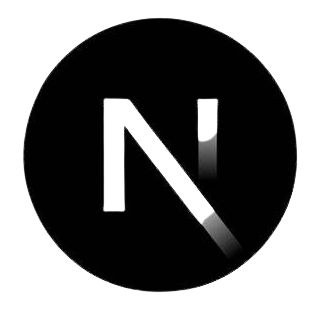
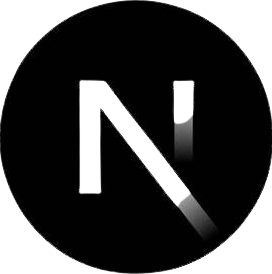
fixed testimonials

diff --git a/components/CreateTestimonial/index.tsx b/components/CreateTestimonial/index.tsx
@@ -4,11 +4,25 @@ import StarRatings from "../../node_modules/react-star-ratings";
 
 const CreateTestimonial = () => {
   const [rating, setRating] = useState(0);
+  const [fullName, setFullName] = useState("");
+  const [profession, setProfession] = useState("");
+  const [testimonial, setTestimonial] = useState("");
+
+  function handleSubmit(e: any) {
+    e.preventDefault();
+    const uploadData = {
+      fullName,
+      profession,
+      rating,
+      testimonial,
+    };
+    console.log(uploadData);
+  }
   return (
     <section id="contact" className="overflow-hidden">
       <div className="container">
         <div className="-mx-4 flex flex-wrap">
-          <div className="w-full px-4 lg:w-7/12 xl:w-8/12">
+          <div className="w-full max-w-[70rem] px-4">
             <div
               className="wow fadeInUp mb-12 rounded-md bg-primary/[3%] py-11 px-8 dark:bg-dark sm:p-[55px] lg:mb-5 lg:px-8 xl:p-[55px]"
               data-wow-delay=".15s
@@ -20,7 +34,7 @@ const CreateTestimonial = () => {
               <p className="mb-12 text-base font-medium text-body-color">
                 Fill form below to do it!
               </p>
-              <form>
+              <form action="submit" onSubmit={handleSubmit}>
                 <div className="-mx-4 flex flex-wrap">
                   <div className="w-full px-4 md:w-1/2">
                     <div className="mb-8">
@@ -28,12 +42,16 @@ const CreateTestimonial = () => {
                         htmlFor="name"
                         className="mb-3 block text-sm font-medium text-dark dark:text-white"
                       >
-                        Your Full Name
+                        Your Full Name:
                       </label>
                       <input
+                        value={fullName}
+                        onChange={(e: any) => {
+                          setFullName(e.target.value);
+                        }}
                         type="text"
                         placeholder="Enter your name"
-                        className="w-full rounded-md border border-transparent py-3 px-6 text-base text-body-color placeholder-body-color shadow-one outline-none focus:border-primary focus-visible:shadow-none dark:bg-[#242B51] dark:shadow-signUp"
+                        className="w-full rounded-md border border-transparent py-3 px-6 text-base text-dark shadow-one outline-none focus:border-primary focus-visible:shadow-none dark:bg-[#242B51] dark:text-white dark:shadow-signUp"
                       />
                     </div>
                   </div>
@@ -46,21 +64,24 @@ const CreateTestimonial = () => {
                         Your Profession:
                       </label>
                       <input
+                        value={profession}
+                        onChange={(e: any) => {
+                          setProfession(e.target.value);
+                        }}
                         type="text"
                         placeholder="Enter your profession"
-                        className="w-full rounded-md border border-transparent py-3 px-6 text-base text-body-color placeholder-body-color shadow-one outline-none focus:border-primary focus-visible:shadow-none dark:bg-[#242B51] dark:shadow-signUp"
+                        className="w-full rounded-md border border-transparent py-3 px-6 text-base text-dark shadow-one outline-none focus:border-primary focus-visible:shadow-none dark:bg-[#242B51] dark:text-white dark:shadow-signUp"
                       />
                     </div>
                   </div>
                   <div className="mb-8 w-full px-4">
                     <StarRatings
+                      starRatedColor="#fbb040"
+                      starHoverColor="#fbb040"
+                      starDimension="30px"
                       rating={rating}
-                      starRatedColor="yellow"
-                      starHoverColor="yellow"
-                      starDimension="35px"
                       changeRating={(e: any) => {
                         setRating(e);
-                        console.log(rating);
                       }}
                       numberOfStars={5}
                       name="rating"
@@ -72,19 +93,26 @@ const CreateTestimonial = () => {
                         htmlFor="message"
                         className="mb-3 block text-sm font-medium text-dark dark:text-white"
                       >
-                        Your Testimonial
+                        Your Testimonial:
                       </label>
                       <textarea
+                        value={testimonial}
+                        onChange={(e: any) => {
+                          setTestimonial(e.target.value);
+                        }}
                         name="message"
                         rows={5}
                         placeholder="Enter your Message"
-                        className="w-full resize-none rounded-md border border-transparent py-3 px-6 text-base text-body-color placeholder-body-color shadow-one outline-none focus:border-primary focus-visible:shadow-none dark:bg-[#242B51] dark:shadow-signUp"
+                        className="w-full resize-none rounded-md border border-transparent py-3 px-6 text-base text-dark shadow-one outline-none focus:border-primary focus-visible:shadow-none dark:bg-[#242B51] dark:text-white dark:shadow-signUp"
                       ></textarea>
                     </div>
                   </div>
                   <div className="w-full px-4">
-                    <button className="rounded-md bg-primary py-4 px-9 text-base font-medium text-white transition duration-300 ease-in-out hover:bg-opacity-80 hover:shadow-signUp">
-                      Submit Ticket
+                    <button
+                      type="submit"
+                      className="rounded-md bg-primary py-4 px-9 text-base font-medium text-white transition duration-300 ease-in-out hover:bg-opacity-80 hover:shadow-signUp"
+                    >
+                      Submit
                     </button>
                   </div>
                 </div>

diff --git a/components/Header/index.tsx b/components/Header/index.tsx
@@ -40,7 +40,7 @@ const Header = () => {
       <header
         className={`header top-0 left-0 z-40 flex w-full items-center bg-transparent ${
           sticky
-            ? "!fixed !z-[9999] !bg-white !bg-opacity-80 shadow-sticky backdrop-blur-sm !transition dark:!bg-primary dark:!bg-opacity-60"
+            ? "!fixed !z-[9999] !bg-white !bg-opacity-80 shadow-sticky backdrop-blur-sm !transition dark:!bg-black dark:!bg-opacity-80"
             : "absolute"
         }`}
       >
@@ -107,7 +107,7 @@ const Header = () => {
                         {menuItem.path ? (
                           <Link
                             href={menuItem.path}
-                            className={`flex py-2 text-base text-dark group-hover:opacity-70 dark:text-white lg:mr-0 lg:inline-flex lg:py-6 lg:px-0`}
+                            className={`flex py-2 text-base text-dark transition-all ease-in hover:!text-primary dark:text-white lg:mr-0 lg:inline-flex lg:py-6 lg:px-0 lg:hover:scale-110`}
                           >
                             {menuItem.title}
                           </Link>
@@ -150,7 +150,7 @@ const Header = () => {
                 </nav>
               </div>
               <div className="flex items-center justify-end pr-16 lg:pr-0">
-                <Link
+                {/* <Link
                   href="/signin"
                   className="hidden py-3 px-7 text-base font-bold text-dark hover:opacity-70 dark:text-white md:block"
                 >
@@ -161,7 +161,7 @@ const Header = () => {
                   className="ease-in-up hidden rounded-md bg-primary py-3 px-8 text-base font-bold text-white transition duration-300 hover:bg-opacity-90 hover:shadow-signUp md:block md:px-9 lg:px-6 xl:px-9"
                 >
                   Sign Up
-                </Link>
+                </Link> */}
                 <div>
                   <ThemeToggler />
                 </div>

diff --git a/components/About/AboutSectionOne.tsx b/components/About/AboutSectionOne.tsx
@@ -24,7 +24,7 @@ const AboutSectionOne = () => {
           <div className="-mx-4 flex flex-wrap items-center">
             <div className="w-full px-4 lg:w-1/2">
               <SectionTitle
-                title="Crafted for Reactify Solutions, SaaS and Business Sites."
+                title="We can guarantee"
                 paragraph="The main ‘thrust’ is to focus on educating attendees on how to best protect highly vulnerable business applications with interactive panel discussions and roundtables."
                 mb="44px"
               />
@@ -36,14 +36,14 @@ const AboutSectionOne = () => {
                 <div className="mx-[-12px] flex flex-wrap">
                   <div className="w-full px-3 sm:w-1/2 lg:w-full xl:w-1/2">
                     <List text="Premium quality" />
-                    <List text="Tailwind CSS" />
-                    <List text="Use for lifetime" />
+                    <List text="Bug free sofwtvare" />
+                    <List text="Delivery on time, budget & scope" />
                   </div>
 
                   <div className="w-full px-3 sm:w-1/2 lg:w-full xl:w-1/2">
-                    <List text="Next.js" />
+                    <List text="Continous Development & Integration" />
                     <List text="Rich documentation" />
-                    <List text="Developer friendly" />
+                    <List text="Cutting Edge Technologies" />
                   </div>
                 </div>
               </div>

diff --git a/components/Contact/index.tsx b/components/Contact/index.tsx
@@ -12,10 +12,10 @@ const Contact = () => {
               "
             >
               <h2 className="mb-3 text-2xl font-bold text-black dark:text-white sm:text-3xl lg:text-2xl xl:text-3xl">
-                Need Help? Open a Ticket
+                Want to contact us?
               </h2>
               <p className="mb-12 text-base font-medium text-body-color">
-                Our support team will get back to you ASAP via email.
+                Fill form below and we will respond in a 24 hours.
               </p>
               <form>
                 <div className="-mx-4 flex flex-wrap">
@@ -67,14 +67,14 @@ const Contact = () => {
                   </div>
                   <div className="w-full px-4">
                     <button className="rounded-md bg-primary py-4 px-9 text-base font-medium text-white transition duration-300 ease-in-out hover:bg-opacity-80 hover:shadow-signUp">
-                      Submit Ticket
+                      Submit
                     </button>
                   </div>
                 </div>
               </form>
             </div>
           </div>
-          <div className="w-full px-4 lg:w-5/12 xl:w-4/12">
+          <div className="h-full w-full px-4 lg:w-5/12 xl:w-4/12">
             <NewsLatterBox />
           </div>
         </div>

diff --git a/components/Testimonials/index.tsx b/components/Testimonials/index.tsx
@@ -11,7 +11,6 @@ const testimonialData: Testimonial[] = [
     designation: "Founder @TailGrids",
     content:
       "Our members are so impressed. It's intuitive. It's clean. It's distraction free. If you're building a community.",
-    image: "/images/testimonials/auth-01.png",
     star: 5,
   },
   {
@@ -20,7 +19,6 @@ const testimonialData: Testimonial[] = [
     designation: "Founder @UIdeck",
     content:
       "Our members are so impressed. It's intuitive. It's clean. It's distraction free. If you're building a community.",
-    image: "/images/testimonials/auth-02.png",
     star: 5,
   },
   {
@@ -29,14 +27,16 @@ const testimonialData: Testimonial[] = [
     designation: "Founder @Lineicons",
     content:
       "Our members are so impressed. It's intuitive. It's clean. It's distraction free. If you're building a community.",
-    image: "/images/testimonials/auth-03.png",
     star: 5,
   },
 ];
 
 const Testimonials = () => {
   return (
-    <section className="relative z-10 bg-primary/[.03] py-16 md:py-20 lg:py-28">
+    <section
+      className="relative z-10 bg-primary/[.03] py-16 md:py-20 lg:py-28"
+      id="testimonials"
+    >
       <div className="container relative">
         <SectionTitle
           title="What Our Users Says"

diff --git a/components/Technologies/index.tsx b/components/Technologies/index.tsx
@@ -90,7 +90,9 @@ const SingleTechnology = ({ brand }: { brand: Technology }) => {
     <div className="mx-3 flex w-full max-w-[160px] items-center justify-center py-[15px] sm:mx-4 lg:max-w-[130px] xl:mx-6 xl:max-w-[150px] 2xl:mx-8 2xl:max-w-[160px]">
       <div
         rel="nofollow noreferrer"
-        className="relative flex h-32 w-32 cursor-pointer items-center justify-center opacity-70 grayscale transition hover:opacity-100 hover:grayscale-0 dark:opacity-60 dark:hover:opacity-100"
+        className={`${
+          image.includes("next") && "border-2 border-white bg-white"
+        } relative flex h-32 w-32 cursor-pointer items-center justify-center rounded-full opacity-70 grayscale transition hover:opacity-100 hover:grayscale-0 dark:opacity-60 dark:hover:opacity-100`}
       >
         <Image src={image} alt={name} width={140} height={140} />
       </div>

diff --git a/components/Testimonials/SingleTestimonial.tsx b/components/Testimonials/SingleTestimonial.tsx
@@ -7,7 +7,7 @@ const starIcon = (
 );
 
 const SingleTestimonial = ({ testimonial }: { testimonial: Testimonial }) => {
-  const { star, name, image, content, designation } = testimonial;
+  const { star, name, content, designation } = testimonial;
 
   let ratingIcons = [];
   for (let index = 0; index < star; index++) {
@@ -29,9 +29,6 @@ const SingleTestimonial = ({ testimonial }: { testimonial: Testimonial }) => {
           “{content}
         </p>
         <div className="flex items-center">
-          <div className="relative mr-4 h-[50px] w-full max-w-[50px] overflow-hidden rounded-full">
-            <Image src={image} alt={name} fill />
-          </div>
           <div className="w-full">
             <h5 className="mb-1 text-lg font-semibold text-dark dark:text-white lg:text-base xl:text-lg">
               {name}

diff --git a/components/Contact/NewsLatterBox.tsx b/components/Contact/NewsLatterBox.tsx
@@ -1,7 +1,7 @@
 const NewsLatterBox = () => {
   return (
     <div
-      className="wow fadeInUp relative z-10 rounded-md bg-primary/[3%] p-8 dark:bg-primary/10 sm:p-11 lg:p-8 xl:p-11"
+      className="wow fadeInUp relative z-10 h-full rounded-md bg-primary/[3%] p-8 dark:bg-primary/10 sm:p-11 lg:p-8 xl:p-11"
       data-wow-delay=".2s"
     >
       <h3 className="mb-4 text-2xl font-bold leading-tight text-black dark:text-white">

diff --git a/components/Header/menuData.tsx b/components/Header/menuData.tsx
@@ -25,6 +25,12 @@ const menuData: Menu[] = [
     path: "/about",
     newTab: false,
   },
+  {
+    id: 5,
+    title: "Testimonials",
+    path: "#testimonials",
+    newTab: false,
+  },
   // {
   //   id: 33,
   //   title: "Blog",
@@ -32,7 +38,7 @@ const menuData: Menu[] = [
   //   newTab: false,
   // },
   {
-    id: 5,
+    id: 6,
     title: "Contact",
     path: "/contact",
     newTab: false,

diff --git a/app/page.tsx b/app/page.tsx
@@ -29,10 +29,10 @@ export default function Home() {
       <Video />
       <Brands />
       <AboutSectionOne />
-      <AboutSectionTwo />
+      {/* <AboutSectionTwo /> */}
       <Testimonials />
-      <Pricing />
-      <Blog />
+      {/* <Pricing /> */}
+      {/* <Blog /> */}
       <Contact />
     </div>
   );

diff --git a/components/Pricing/index.tsx b/components/Pricing/index.tsx
@@ -6,7 +6,6 @@ import PricingBox from "./PricingBox";
 
 const Pricing = () => {
   const [isMonthly, setIsMonthly] = useState(true);
-
   return (
     <section id="pricing" className="relative z-10 py-16 md:py-20 lg:py-28">
       <div className="container">

diff --git a/types/testimonial.ts b/types/testimonial.ts
@@ -3,6 +3,5 @@ export type Testimonial = {
   name: string;
   designation: string;
   content: string;
-  image: string;
   star: number;
 };
